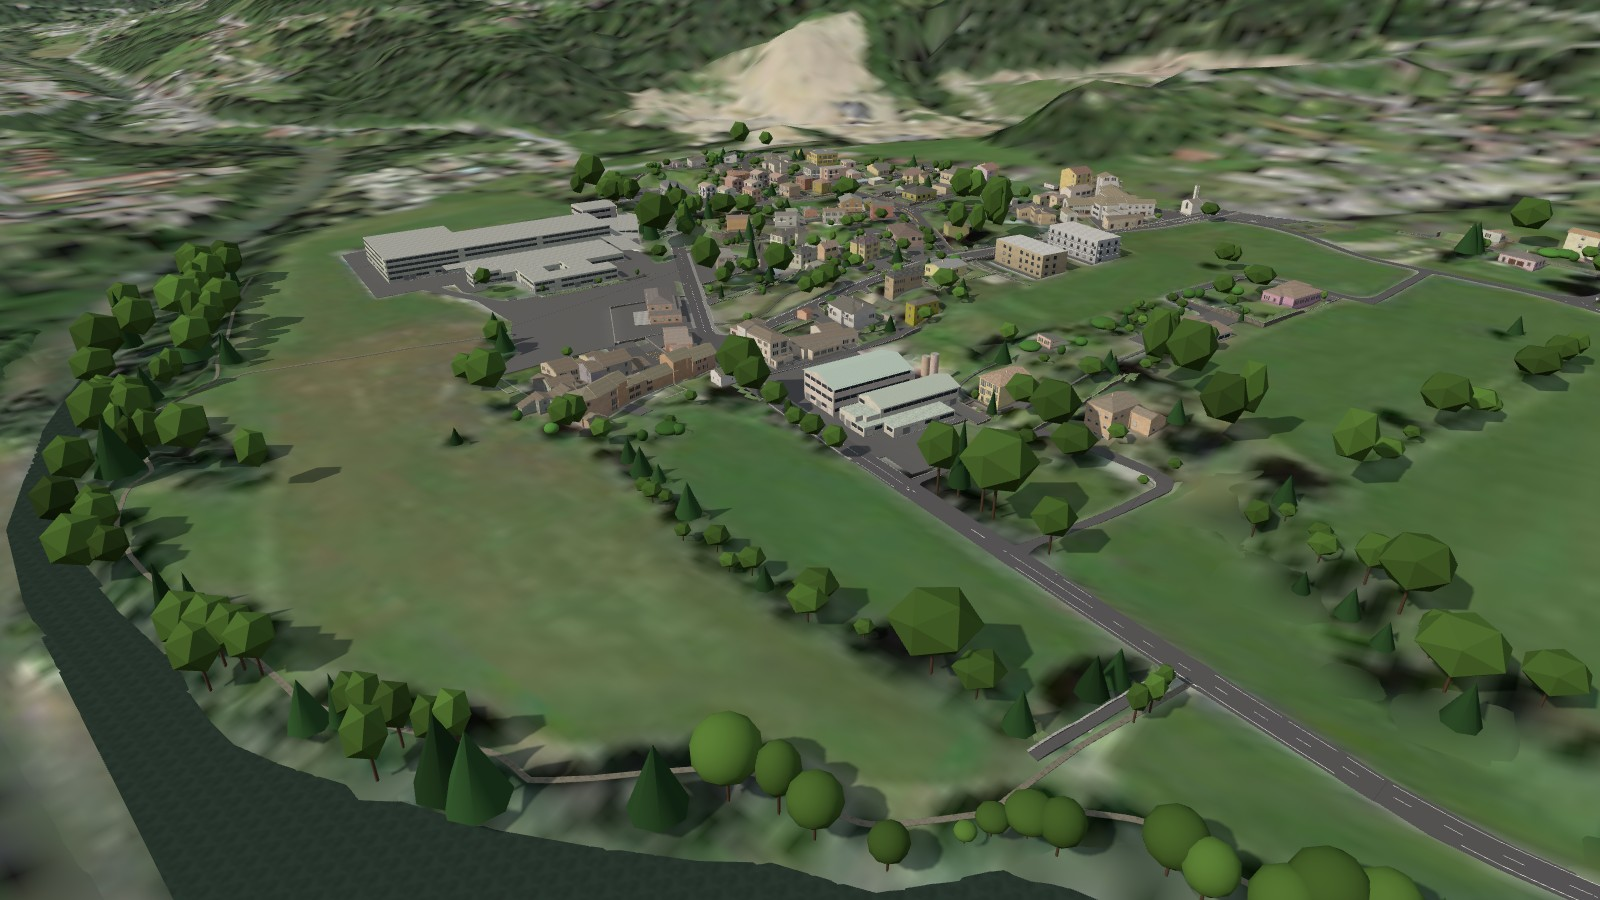
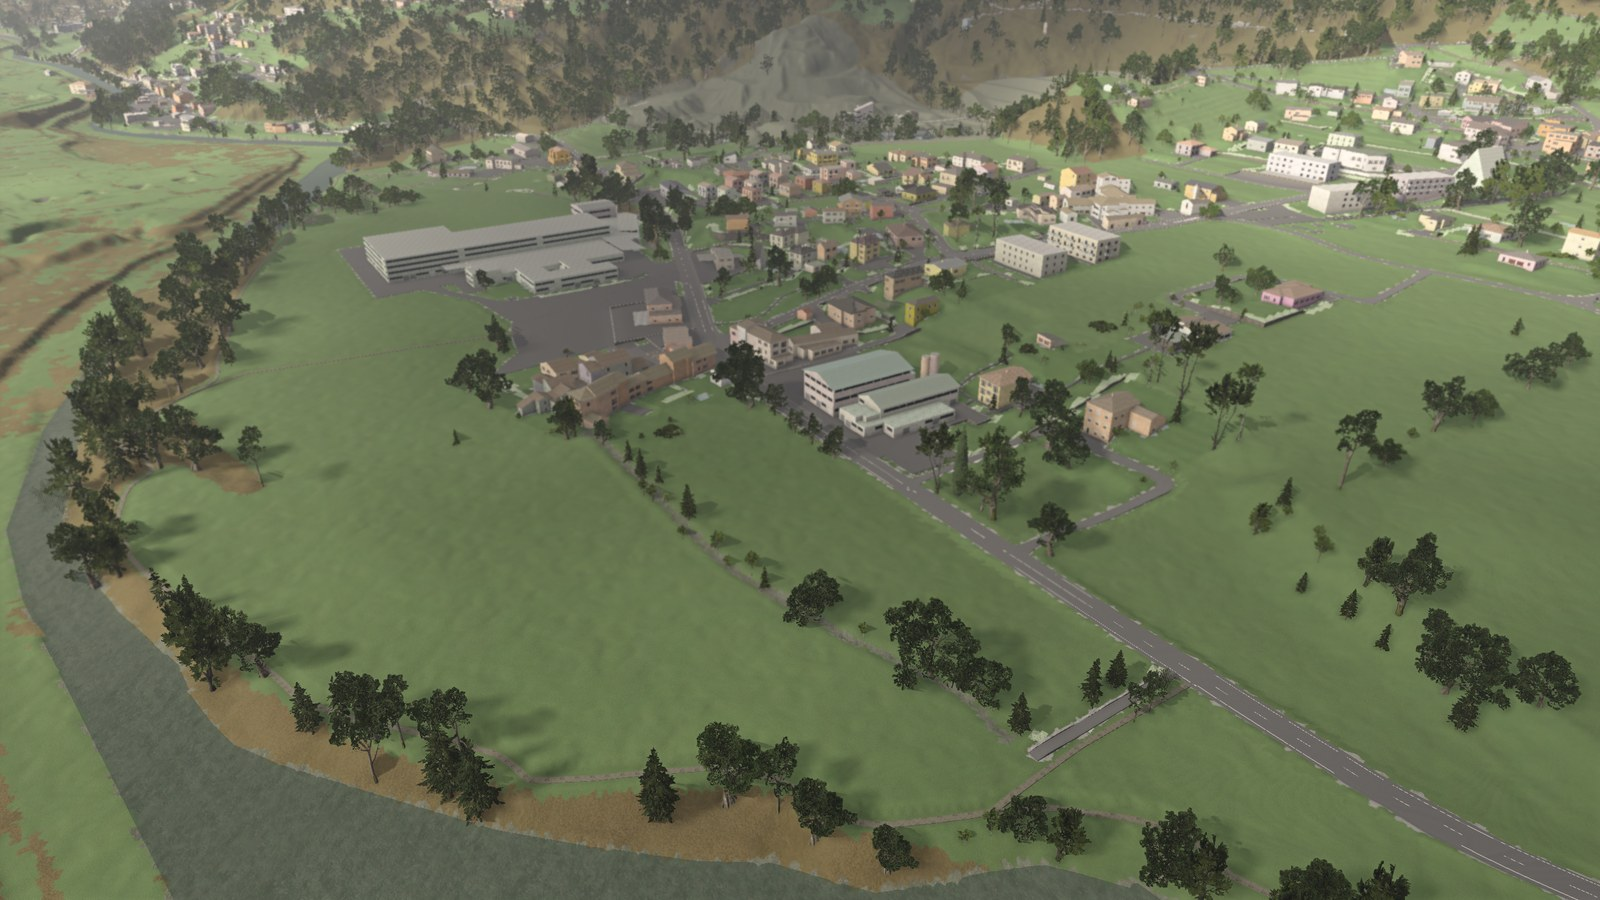
Screenshot del README presi in BeamNG.drive sul livello v2.6
Le 14 viste della galleria non sono più render three.js ma screenshot del gioco
(camera libera, senza HUD), con le stesse inquadrature di screenshots.py.
run_readme_screenshots.ps1 monta la mod per la durata del giro, lancia
l'estensione magliaso_readme e converte gli shot in JPG; le quote vengono dal
terreno del gioco. Corrette le viste di Pura (era 120 m fuori strada) e di
Ponte Tresa (ora inquadra il paese).

diff --git a/beamng/pipeline/ingame_screenshots.py b/beamng/pipeline/ingame_screenshots.py
@@ -1,0 +1,44 @@
+"""README screenshots taken inside BeamNG.drive, at the same views as screenshots.py (v2.6).
+make : writes the camera tour (<user>/magliaso_readme_views.json) for bng_lua/magliaso_readme.lua:
+       for every view of screenshots.py the camera and target position (x, y in the level frame) and the
+       heights above the ground; the extension takes the ground height from the game itself (terrain,
+       roads, bridges), so the views do not depend on a DTM of the pipeline's work folder.
+The tour itself is run by run_readme_screenshots.ps1, which then converts the game's shots to the
+README's JPGs (beamng/verifica/screenshots).
+    python ingame_screenshots.py [view names...]        (default: all the views)
+"""
+import json, math, os, sys
+from config import BEAMNG_USER, wgs_to_local
+from screenshots import VIEWS, STREET
+
+OUT = os.path.join(BEAMNG_USER, "magliaso_readme_views.json")
+SNAP_ROAD = {"12_pura_cantonale", "13_agno_via"}
+
+
+def main():
+    views = []
+    for name, (lat, lon, dist, az, el, fov, title) in VIEWS.items():
+        x, y = wgs_to_local(lat, lon)
+        a, e = math.radians(az), math.radians(el)
+        cx, cy = x + dist * math.cos(e) * math.sin(a), y + dist * math.cos(e) * math.cos(a)
+        # camera dist * sin(el) above the ground of the target, looking at the target on the ground
+        views.append({"name": name, "cam": [round(cx, 2), round(cy, 2)], "target": [round(x, 2), round(y, 2)],
+                      "cam_dz": round(dist * math.sin(e), 2), "target_dz": 0.0, "from_target": True,
+                      "fov": fov, "wait": 20.0})
+    for name, (la, lo, lb, lob, eye, fov, title) in STREET.items():
+        x0, y0 = wgs_to_local(la, lo)
+        x1, y1 = wgs_to_local(lb, lob)
+        # eye height above the ground under the camera, looking slightly down; snap_road: the camera is moved
+        # onto the closest road of the game's AI network and looks along it (the views of screenshots.py
+        # that stand in a garden or beside the road)
+        views.append({"name": name, "cam": [round(x0, 2), round(y0, 2)], "target": [round(x1, 2), round(y1, 2)],
+                      "cam_dz": eye, "target_dz": eye, "from_target": False, "pitch": -3.0,
+                      "snap_road": name in SNAP_ROAD, "fov": fov, "wait": 10.0})
+    if sys.argv[1:]:
+        views = [v for v in views if v["name"] in sys.argv[1:]]
+    json.dump(views, open(OUT, "w"), indent=1)
+    print(OUT, len(views), "views")
+
+
+if __name__ == "__main__":
+    main()

diff --git a/beamng/pipeline/screenshots.py b/beamng/pipeline/screenshots.py
@@ -18,7 +18,7 @@ VIEWS = {
     "02_agno_nucleo": (45.9990, 8.9018, 230, 160, 30, 50, "Agno, il nucleo e la Collegiata"),
     "03_cademario": (46.0226, 8.8905, 330, 150, 28, 50, "Cademario"),
     "04_novaggio": (46.0100, 8.8530, 360, 120, 26, 50, "Novaggio"),
-    "05_ponte_tresa": (45.9678, 8.8570, 260, 60, 28, 50, "Ponte Tresa, il ponte di confine"),
+    "05_ponte_tresa": (45.9678, 8.8570, 320, 225, 26, 50, "Ponte Tresa vista da oltre confine"),
     "06_bioggio_manno": (46.0215, 8.9075, 600, 200, 25, 50, "Bioggio e Manno, piano del Vedeggio"),
     "07_astano": (45.9890, 8.8215, 300, 140, 28, 50, "Astano"),
     "08_sessa": (45.9990, 8.8140, 300, 220, 26, 50, "Sessa"),
@@ -28,7 +28,7 @@ VIEWS = {
 # street level: (camera lat, lon, look-at lat, lon, eye height, fov, title)
 STREET = {
     "11_magliaso_strada": (45.98183, 8.88135, 45.98247, 8.88040, 1.6, 64, "Magliaso, via verso il nucleo"),
-    "12_pura_cantonale": (45.99440, 8.86660, 45.99530, 8.86560, 1.6, 64, "La cantonale verso Pura"),
+    "12_pura_cantonale": (45.99379, 8.86519, 45.99511, 8.86451, 1.6, 64, "La cantonale verso Pura"),
     "13_agno_via": (45.99870, 8.90160, 45.99950, 8.90120, 1.6, 64, "Agno, una via del nucleo"),
     "14_passo_tornante": (46.04242, 8.91074, 46.04256, 8.91093, 1.6, 64, "Il passo sopra Gravesano verso Arosio"),
 }

diff --git a/README.md b/README.md
@@ -32,12 +32,12 @@ The map is built by a Python pipeline from swisstopo open data, the official cad
 
 ## Gallery
 
-> Renders of the built level, made without the game (`beamng/pipeline/screenshots.py`: three.js with the map's material textures). In BeamNG.drive the light, sky, vegetation and terrain are the game's own.
+> Screenshots taken in BeamNG.drive 0.39 on the v2.6 level, at the same views as the earlier renders (`beamng/pipeline/run_readme_screenshots.ps1`: free camera, no HUD, the game's own light, sky, vegetation and terrain).
 
 | | |
 |---|---|
 | ![Agno, the old town and the Collegiate Church](beamng/verifica/screenshots/02_agno_nucleo.jpg)<br>*Agno, the old town and the Collegiate Church* | ![Cademario](beamng/verifica/screenshots/03_cademario.jpg)<br>*Cademario* |
-| ![Novaggio](beamng/verifica/screenshots/04_novaggio.jpg)<br>*Novaggio* | ![Ponte Tresa, the border bridge](beamng/verifica/screenshots/05_ponte_tresa.jpg)<br>*Ponte Tresa, the border bridge* |
+| ![Novaggio](beamng/verifica/screenshots/04_novaggio.jpg)<br>*Novaggio* | ![Ponte Tresa, seen from across the border](beamng/verifica/screenshots/05_ponte_tresa.jpg)<br>*Ponte Tresa, seen from across the border* |
 | ![Bioggio and Manno, the Vedeggio plain](beamng/verifica/screenshots/06_bioggio_manno.jpg)<br>*Bioggio and Manno, the Vedeggio plain* | ![Astano](beamng/verifica/screenshots/07_astano.jpg)<br>*Astano* |
 | ![Sessa](beamng/verifica/screenshots/08_sessa.jpg)<br>*Sessa* | ![The pass above Gravesano towards Arosio (the Penudria)](beamng/verifica/screenshots/09_passo_arosio.jpg)<br>*The pass above Gravesano towards Arosio (the Penudria)* |
 | ![Caslano and Via Torrazza along the lake](beamng/verifica/screenshots/10_caslano_torrazza.jpg)<br>*Caslano and Via Torrazza along the lake* | ![Magliaso, a street towards the old town](beamng/verifica/screenshots/11_magliaso_strada.jpg)<br>*Magliaso, a street towards the old town* |
